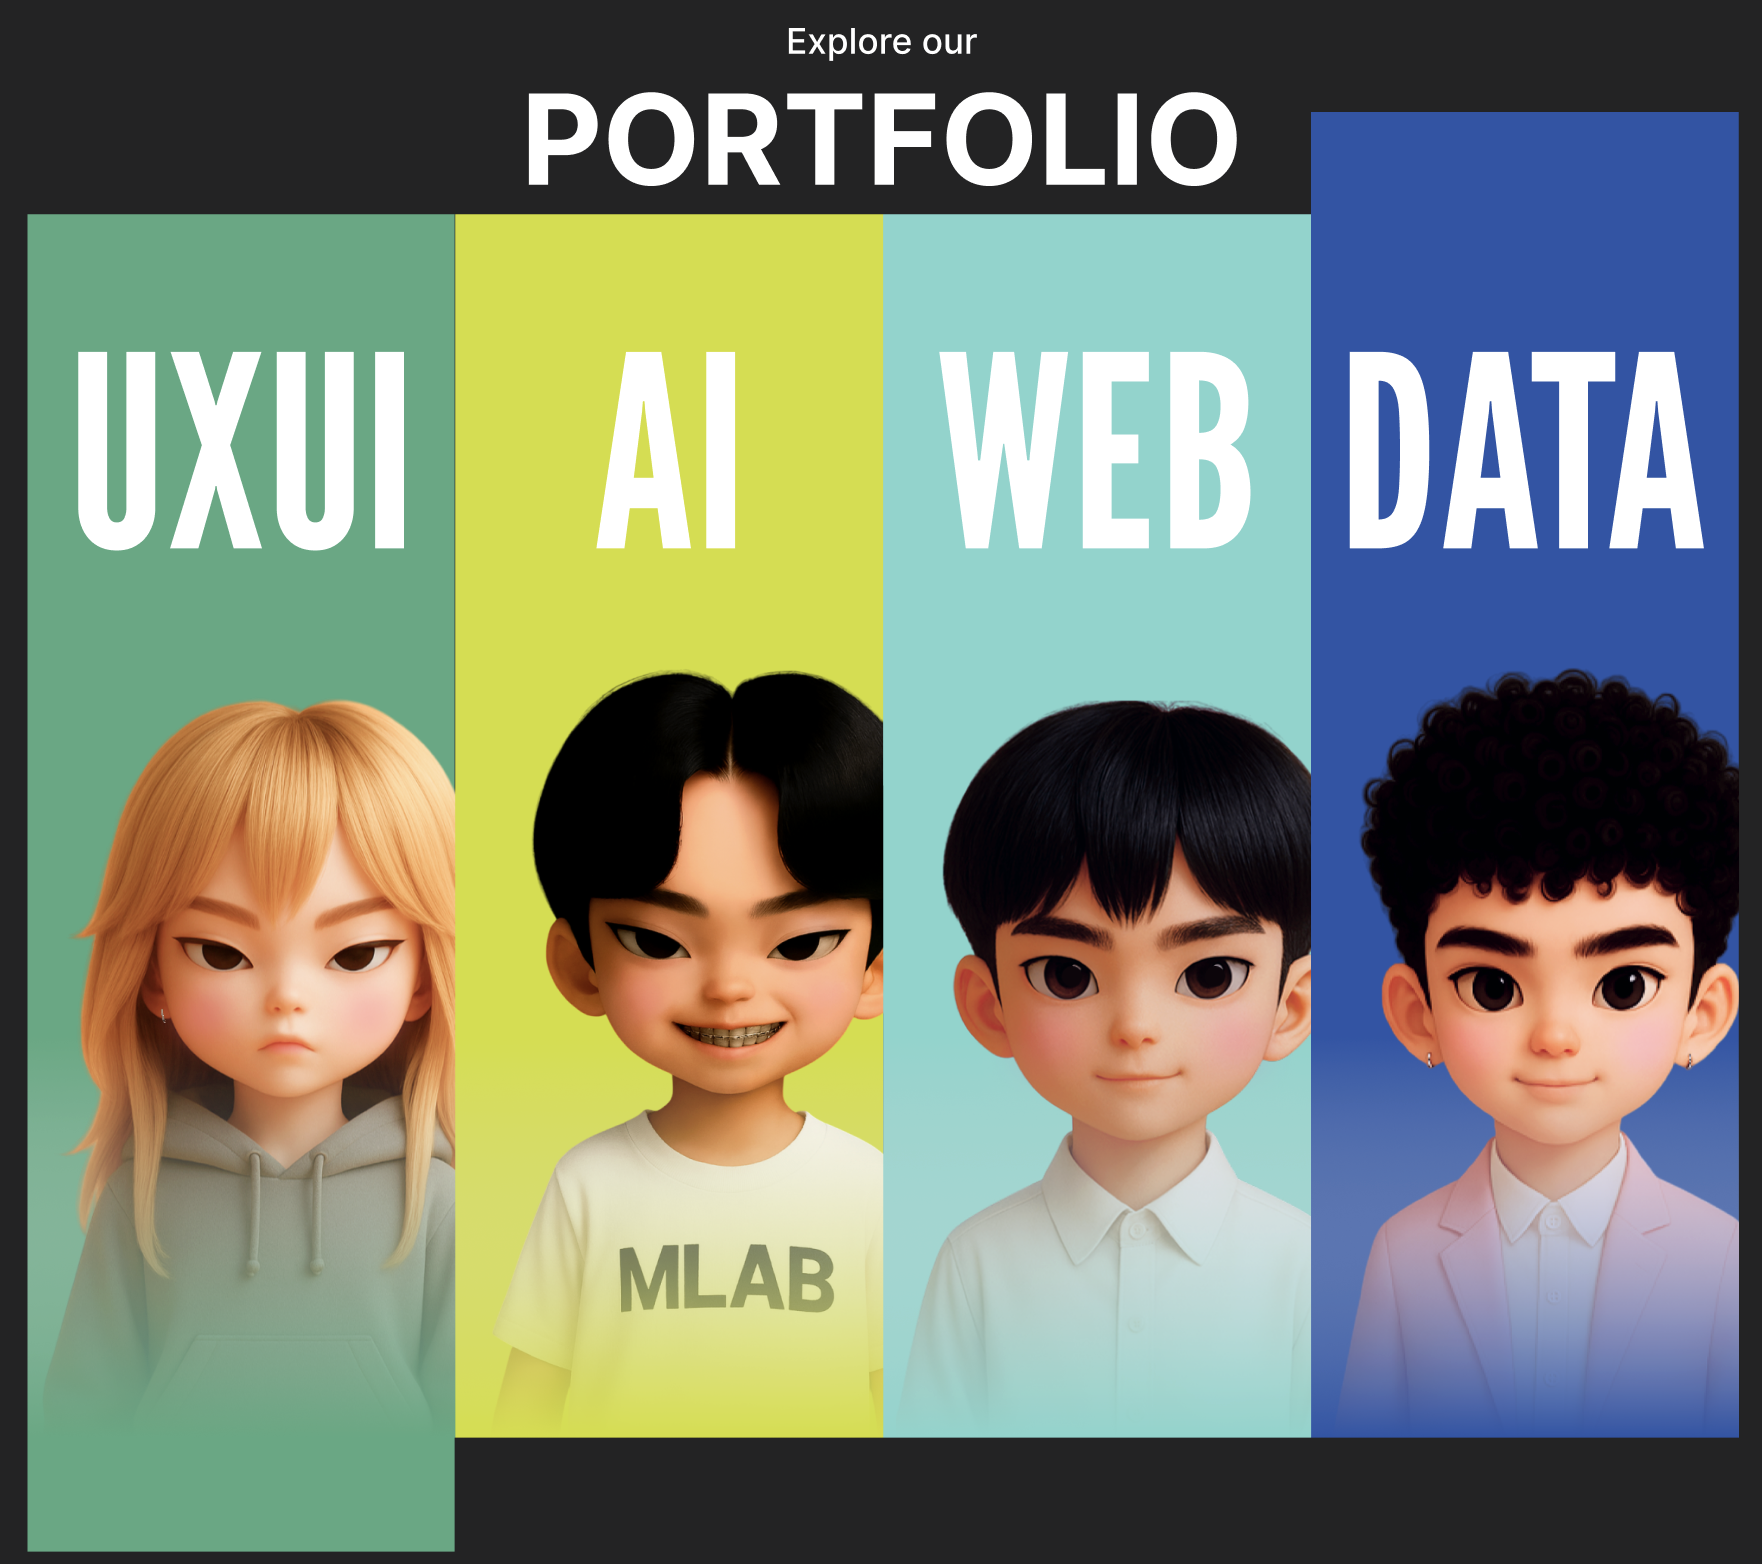
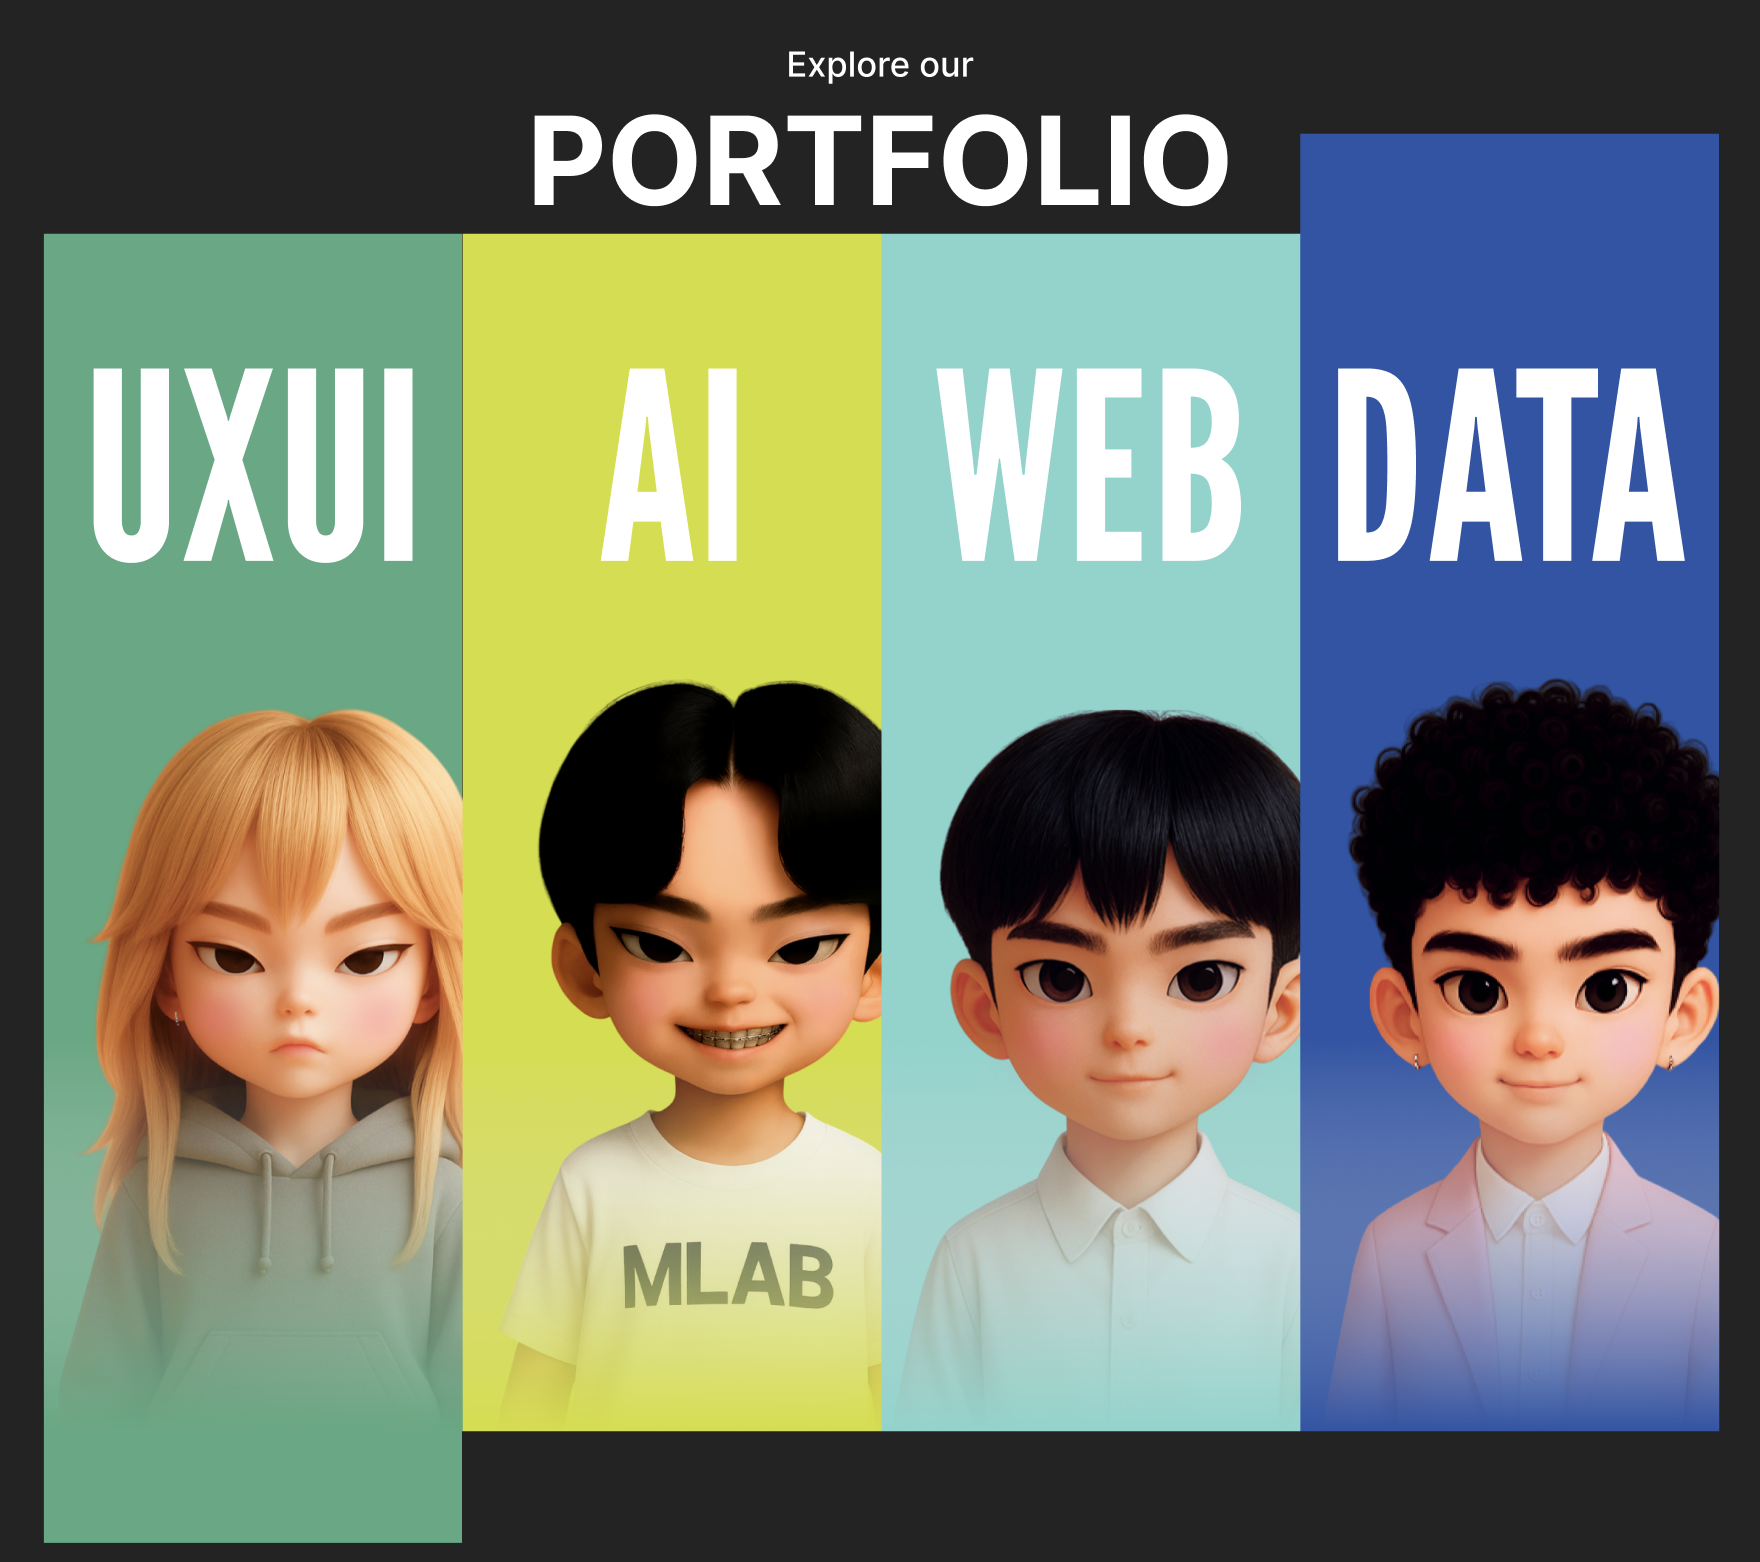
update

diff --git a/style.css b/style.css
@@ -99,15 +99,22 @@ body {
 /* Responsive */
 @media (max-width: 1024px) {
   .details {
+    display: grid;                      /* ใช้ grid แทน flex */
     grid-template-columns: repeat(2, 1fr);
+    justify-items: center;              /* จัดกลางแต่ละบล็อค */
+    gap: 20px;
   }
 }
 
 @media (max-width: 768px) {
   .details {
-    grid-template-columns: 1fr;
+    display: grid;                      /* ยังคงใช้ grid */
+    grid-template-columns: 1fr;         /* หนึ่งคอลัมน์เต็มจอ */
+    justify-items: center;              /* บล็อคอยู่กลาง */
+    gap: 20px;
   }
 }
+
 
 
 
